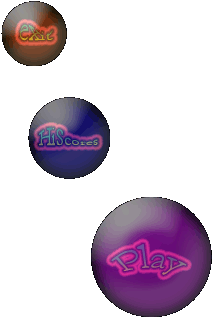
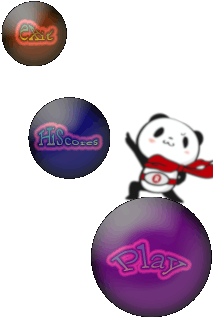
A bunch of changes putting rakuten images in the game. I don't claim to hold the copyright to any of these images.

Changed region(s): [[0.5634, 0.3396, 1.0, 0.6509]]

diff --git a/src/main/java/cro/j2d/games/cuc/scroller/World.java b/src/main/java/cro/j2d/games/cuc/scroller/World.java
@@ -51,6 +51,8 @@ public class World {
     int LEVEL_PIXEL_HEIGHT = this.playableYSize * 2;
 
     public void loadData() {
+        this.getSpriteMan().loadSprite("cro/j2d/pics/hero-scarf-rakuten-giant-panda.png", "rakuten-panda");
+        this.getSpriteMan().loadSprite("cro/j2d/pics/proud-panda.png", "proud-panda");
         this.getSpriteMan().loadSprite("cro/j2d/pics/nebula_2.png", "nebula");
         this.getSpriteMan().loadSprite("cro/j2d/pics/enemy3_dmg_1.gif", "spjunk1");
         this.getSpriteMan().loadSprite("cro/j2d/pics/enemy3.gif", "spjunk2");
@@ -64,8 +66,10 @@ public class World {
         this.getSpriteMan().loadSprite("cro/j2d/pics/pickup2.gif", "pickup2");
         this.getSpriteMan().loadSprite("cro/j2d/pics/pickup3.gif", "pickup3");
         this.getSpriteMan().loadSprite("cro/j2d/pics/pickup4.gif", "pickup4");
-        this.getSpriteMan().loadSprite("cro/j2d/pics/enemy2.gif", "enemy2");
-        this.getSpriteMan().loadSprite("cro/j2d/pics/enemy3_dmg_1.gif", "enemy3");
+        //this.getSpriteMan().loadSprite("cro/j2d/pics/enemy2.gif", "enemy2");
+        this.getSpriteMan().loadSprite("cro/j2d/pics/rakuten-bee-small.png", "enemy2");
+        //this.getSpriteMan().loadSprite("cro/j2d/pics/enemy3_dmg_1.gif", "enemy3");
+        this.getSpriteMan().loadSprite("cro/j2d/pics/hero-panda-small.png", "enemy3");
         this.getSfxMan().setNullSound(this.getSfxMan().loadSfx("cro/sounds/sfx/null.au", "null"));
         this.getSfxMan().loadSfx("cro/sounds/loops/fruity_loop.au", "fruity_loop");
         this.getSfxMan().loadSfx("cro/sounds/loops/rave.au", "rave");
@@ -163,16 +167,16 @@ public class World {
         Object obj = null;
         Object sprite = null;
         SpaceJunkObj spaceJunkObj = null;
-        for (i = 0; i < 15; ++i) {
+        for (i = 0; i < 1500; ++i) {
             spaceJunkObj = new SpaceJunkObj(this.getVecDebris2(), null, (int)((double)this.getPlayableXSize() * Math.random()), (int)((double)this.getLEVEL_PIXEL_HEIGHT() * Math.random()), this);
-            spaceJunkObj.setColorR(0.9f);
+            spaceJunkObj.setColorR(0.2f);
             spaceJunkObj.setColorG((float)Math.random());
             spaceJunkObj.setColorB((float)Math.random());
         }
-        for (i = 0; i < 5; ++i) {
+        for (i = 0; i < 50; ++i) {
             spaceJunkObj = new SpaceJunkObj(this.getVecDebris2(), null, 20, 2, (int)((double)this.getPlayableXSize() * Math.random()), (int)((double)this.getLEVEL_PIXEL_HEIGHT() * Math.random()), this);
             spaceJunkObj.setColorR((float)Math.random());
-            spaceJunkObj.setColorG(0.9f);
+            spaceJunkObj.setColorG(0.2f);
             spaceJunkObj.setColorB((float)Math.random());
         }
         PlayerObj playerObj = new PlayerObj(this.getVecPlayer(), this.getSpriteMan().getSprite("ship_e"), 1, this.getPlayableYSize() / 2, this);
@@ -392,6 +396,7 @@ public class World {
         g.setColor(Color.RED);
         g.fillRect((int)((double)(this.getPlayableXSize() / 2) - 108.5) + 62, 17, (int)((double)pObj.getHealth() / 2.857), 10);
         this.spriteMan.getSprite("shields").draw(g, (int)((double)(this.getPlayableXSize() / 2) - 108.5), 0);
+        this.spriteMan.getSprite("proud-panda").draw(g, (int)((double)(this.getPlayableXSize()) - 100), (int)((double)(this.getPlayableYSize()) - 65));
         g.setColor(Color.WHITE);
         g.drawString("fps: " + fps, 10, this.getPlayableYMax() - 10);
         g.drawString("# of entities: " + (this.vecDebris.size() + this.vecDebris2.size() + this.vecEnemies.size() + this.vecEnemyShots.size() + this.vecPlayer.size() + this.vecPlayerShots.size()), 90, this.getPlayableYMax() - 10);

diff --git a/src/main/java/cro/j2d/games/cuc/scroller/PlayerObj.java b/src/main/java/cro/j2d/games/cuc/scroller/PlayerObj.java
@@ -19,7 +19,7 @@ extends Obj {
     private long shot1Wait = 0L;
     private long shot2Wait = 0L;
     private long shot3Wait = 0L;
-    private long thrustWait = 0L;
+    private long thrustWait = 10L;
     final double MAX_SPEED = 10.0;
     private Vector vecShots = null;
     private int score;
@@ -77,7 +77,7 @@ extends Obj {
                 this.dys = 0.0;
             }
         }
-        for (i = 0; i < 1; ++i) {
+        for (i = 0; i < 10; ++i) {
             ex = new Particle(this.vector, null, (int)this.x, (int)(this.y + (double)(this.height / 2) - 5.0 + Math.random() * 8.0), this.objWorld);
             ex.setColorR(0.6f);
             ex.setColorG(0.6f);
@@ -120,7 +120,7 @@ extends Obj {
         }
         if (InputClass.getPlayer1Right() && this.dxs <= 10.0) {
             this.dxs += ACCELERATION;
-            for (i = 0; i < 1; ++i) {
+            for (i = 0; i < 10; ++i) {
                 ex = new Particle(this.vector, null, (int)this.x, (int)(this.y + (double)(this.height / 2) - 4.0 + Math.random() * 8.0), this.objWorld);
                 ex.setWidth((int)(this.xs * Math.random() * -2.5));
                 if (Math.random() > 0.5) {
@@ -140,7 +140,7 @@ extends Obj {
         }
         if (InputClass.getPlayer1Up() && this.dys >= -10.0) {
             this.dys -= ACCELERATION;
-            for (i = 0; i < 1; ++i) {
+            for (i = 0; i < 10; ++i) {
                 ex = new Particle(this.vector, null, (int)(this.x + (double)(this.width / 2) - 4.0 + Math.random() * 8.0), (int)this.y + this.height, this.objWorld);
                 ex.setHeight((int)(this.ys * Math.random() * -1.5));
                 if (Math.random() > 0.5) {
@@ -160,7 +160,7 @@ extends Obj {
         }
         if (InputClass.getPlayer1Down() && this.dys <= 10.0) {
             this.dys += ACCELERATION;
-            for (i = 0; i < 1; ++i) {
+            for (i = 0; i < 10; ++i) {
                 ex = new Particle(this.vector, null, (int)(this.x + (double)(this.width / 2) - 4.0 + Math.random() * 8.0), (int)this.y, this.objWorld);
                 ex.setHeight((int)(this.ys * Math.random() * -1.5));
                 if (Math.random() > 0.5) {

diff --git a/src/main/java/cro/j2d/games/cuc/scroller/Laser.java b/src/main/java/cro/j2d/games/cuc/scroller/Laser.java
@@ -89,7 +89,7 @@ extends Particle {
     }
 
     public void doExplosion() {
-        if (Math.random() > 0.1) {
+        if (Math.random() > 0.8) {
             return;
         }
         double sp = 0.0;
@@ -114,7 +114,7 @@ extends Particle {
                 sp = 0.5;
             }
         }
-        for (int i = 0; i < 6; ++i) {
+        for (int i = 0; i < 12; ++i) {
             Laser ex = new Laser(this.vector, null, (int)this.x, (int)(this.y + Math.random() * 3.0), this.objWorld);
             ex.setWidth((int)(this.xs * Math.random() * sp));
             if (Math.random() > 0.5) {
@@ -122,11 +122,12 @@ extends Particle {
             } else {
                 ex.setHeight(-(1 + (int)(8.0 * Math.random())));
             }
+            float green = 0.7f + ((float)((3.0 * Math.random())/10f));
             ex.setDxs(ex.width);
             ex.setDys(ex.height);
             ex.setHealth(90);
             ex.setColorR(0.3f);
-            ex.setColorG(1.0f);
+            ex.setColorG(green);
             ex.setColorB(1.0f);
             ex.setCRate(-0.03f);
             ex.setType(20);
@@ -147,7 +148,7 @@ extends Particle {
 
     public static void createLaserShockwave(Laser l1) {
         Particle ex = null;
-        for (int i = 0; i < 2; ++i) {
+        for (int i = 0; i < 20; ++i) {
             ex = new Particle(l1.vector, null, (int)l1.x, (int)l1.y, l1.objWorld);
             ex.setWidth(2);
             ex.setHeight(3);

diff --git a/src/main/java/cro/j2d/games/cuc/scroller/Enemy3Obj.java b/src/main/java/cro/j2d/games/cuc/scroller/Enemy3Obj.java
@@ -26,7 +26,7 @@ extends Obj {
         this.y = this.objWorld.getPlayableY() + (int)((double)(this.objWorld.getPlayableYSize() - this.height) * Math.random());
         this.xs = 0.0;
         this.ys = 0.0;
-        this.dxs = -(this.width / 5);
+        this.dxs = -(this.width / 30);
         this.dys = 0.0;
         this.health = 200;
         this.worth = 4000;
@@ -81,7 +81,7 @@ extends Obj {
             ex.setWidth(3 + (int)(5.0 * Math.random()));
             ex.setHeight(3 + (int)(5.0 * Math.random()));
         }
-        for (i = 0; i < 7; ++i) {
+        for (i = 0; i < 7; ++i) {            
             ex = new Particle(this.vector, null, (int)(this.x + (double)(this.width / 2) * Math.random()), (int)(this.y + (double)(this.height / 3)) + (int)((double)(this.height / 3) * Math.random()), this.objWorld);
             ex.setDxs(this.dxs * (4.0 * Math.random()) * -1.0);
             ex.setHealth(20);

diff --git a/src/main/java/cro/j2d/games/cuc/scroller/ParticleDust.java b/src/main/java/cro/j2d/games/cuc/scroller/ParticleDust.java
@@ -13,11 +13,11 @@ import java.util.Vector;
 
 public class ParticleDust
 extends Particle {
-    static final int TYPE_HEALTH_UP = 1;
-    static final int TYPE_POINTS_UP = 10;
+    static final int TYPE_HEALTH_UP = 10;
+    static final int TYPE_POINTS_UP = 80;
     static final int TYPE_DARK_PLAUGE = 20;
     protected int dustType = 10;
-    static final int exlosionSize = 4;
+    static final int exlosionSize = 10;
 
     public ParticleDust(Vector vec, Sprite s, int x_tmp, int y_tmp, World w) {
         super(vec, s, x_tmp, y_tmp, w);

diff --git a/src/main/java/cro/j2d/games/cuc/scroller/InputClass.java b/src/main/java/cro/j2d/games/cuc/scroller/InputClass.java
@@ -99,7 +99,7 @@ extends KeyAdapter {
                 player1Down = true;
                 break;
             }
-            case KeyEvent.VK_Z: {
+            case KeyEvent.VK_SHIFT: {
                 player1Fire1 = true;
                 break;
             }
@@ -137,7 +137,7 @@ extends KeyAdapter {
                 player1Down = false;
                 break;
             }
-            case KeyEvent.VK_Z: {
+            case KeyEvent.VK_SHIFT: {
                 player1Fire1 = false;
                 break;
             }

diff --git a/src/main/java/cro/j2d/games/cuc/scroller/Enemy2Obj.java b/src/main/java/cro/j2d/games/cuc/scroller/Enemy2Obj.java
@@ -26,7 +26,7 @@ extends Obj {
         this.y = this.objWorld.getPlayableY() + (int)((double)(this.objWorld.getPlayableYSize() - this.height) * Math.random());
         this.xs = 0.0;
         this.ys = 0.0;
-        this.dxs = -(this.width / 5);
+        this.dxs = -(this.width / 25);
         this.dys = 0.0;
         this.health = 100;
         this.worth = 2000;

diff --git a/src/main/java/cro/j2d/games/cuc/scroller/StartHere.java b/src/main/java/cro/j2d/games/cuc/scroller/StartHere.java
@@ -99,7 +99,7 @@ implements Runnable {
                 loop = 0;
                 if (music_count++ > 10) {
                     music_count = 0;
-                    this.world.moreEnemies(20);
+                    this.world.moreEnemies(6);
                 }
             }
             if (System.currentTimeMillis() >= logicSpeed) {

diff --git a/src/main/java/cro/j2d/games/cuc/scroller/Pickup1Obj.java b/src/main/java/cro/j2d/games/cuc/scroller/Pickup1Obj.java
@@ -81,7 +81,7 @@ extends Obj {
         if (obj == null) {
             return;
         }
-        ParticleDust.createHealthDust(10, this, obj);
+        ParticleDust.createHealthDust(100, this, obj);
     }
 
     public static void createHPPickup(int amt, Obj obj) {
